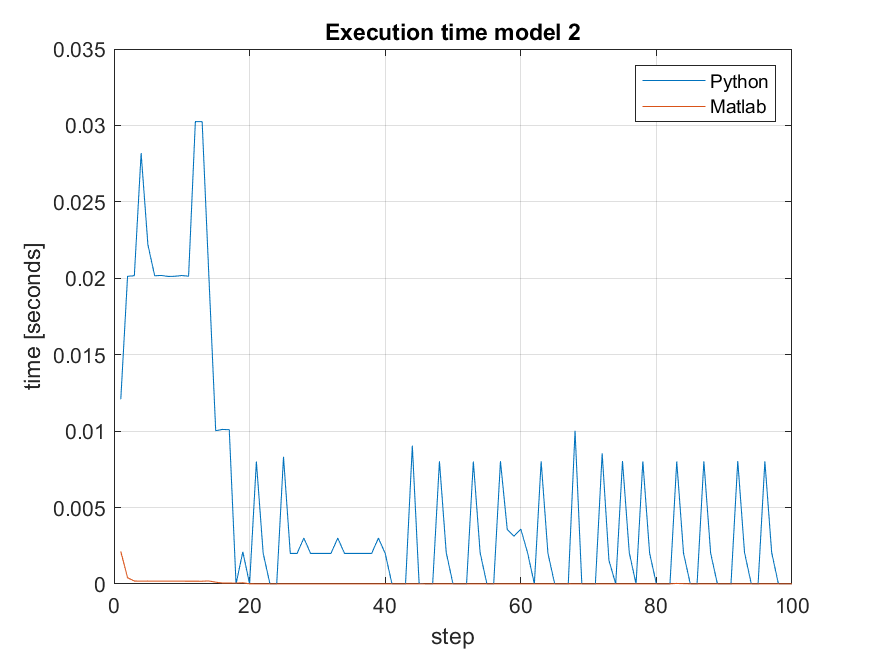
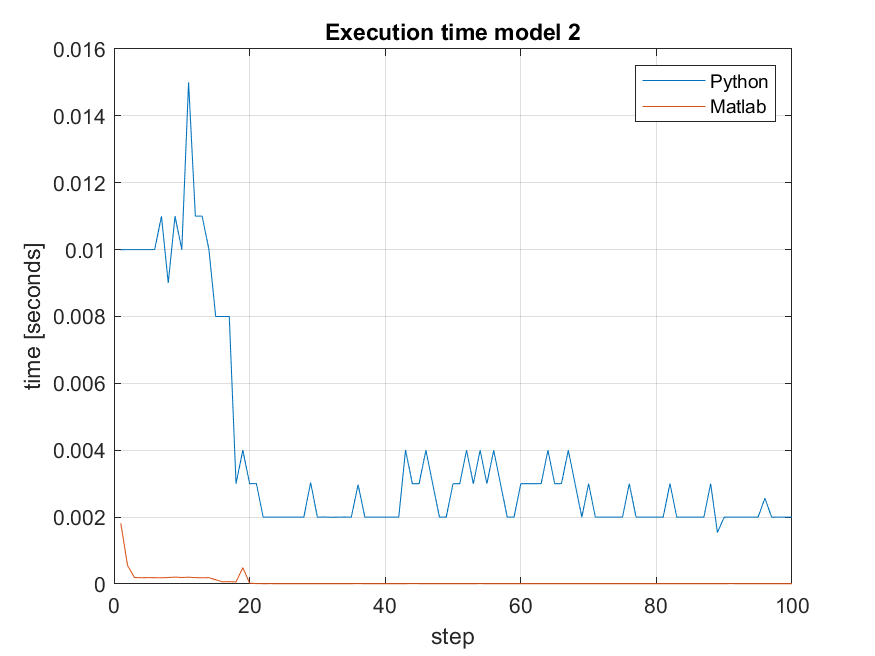
fixed while iterations

diff --git a/PythonCode/MPC_run.py b/PythonCode/MPC_run.py
@@ -36,6 +36,7 @@ HGz = -Hinv@np.transpose(Gz) #stemmer
 HGzu = HGz[0:nu, :]
 hifu = -hif[0:nu, :]
 
+actset = np.zeros((nc,1))
 actset0 = np.zeros((nc,1))
 Qmat0i = np.identity(nc) #denne er overflødig siden vi setter dne i for loopen
 
@@ -47,7 +48,7 @@ for i in range(tend):
     
     feasflag = False
 
-    actset = actset0
+    actset = np.zeros((nc,1))
     solved = False
     ix = 0
 
@@ -84,7 +85,7 @@ for i in range(tend):
                 i2= []
             if (i2): 
                 iz = i2z
-                actset[iz] = 1
+                actset[iz] = 1 #hvorfor setter denne her to variabler, både actset og actset0??
                 qc = -1
             else:
                 iz = []
@@ -104,10 +105,7 @@ for i in range(tend):
                 break
 
             vAd = np.multiply((1/qdiv),(vA))
-            #Qmat1i = np.subtract(Qmat0i, vAd@np.matrix(Qmat0i[iz,:]))
-            o=vAd@np.matrix(Qmat0i[iz,:])
             Qmat1i = np.subtract(Qmat0i, vAd@np.matrix(Qmat0i[iz,:]))
-            #Qmat1i = Qmat0i-vAd@np.matrix(Qmat0i[iz,:])
             Qmat0i = Qmat1i
 
         else:

diff --git a/PythonCode/test.py b/PythonCode/test.py
@@ -12,3 +12,7 @@ import datetime
 
 A = np.array([[1, 2, 3, 4], [5,6,7,8], [1, 2, 3, 4], [1, 2, 3, 4]])
 print(A[:, 1])
+
+myvar0 = 5
+myvar = 2
+print(myvar0)

diff --git a/PythonCode/MPC_setup.py b/PythonCode/MPC_setup.py
@@ -9,7 +9,7 @@ def deb(A):
     print("dimention:")
     print(A.shape)
 
-MODEL = 2
+MODEL = 1
 
 
 

diff --git a/Matlab_kode/MPC_setup.m b/Matlab_kode/MPC_setup.m
@@ -1,4 +1,4 @@
-Model = 1;
+Model = 2;
 
 if (Model == 1)
     % Discrete double integrator
